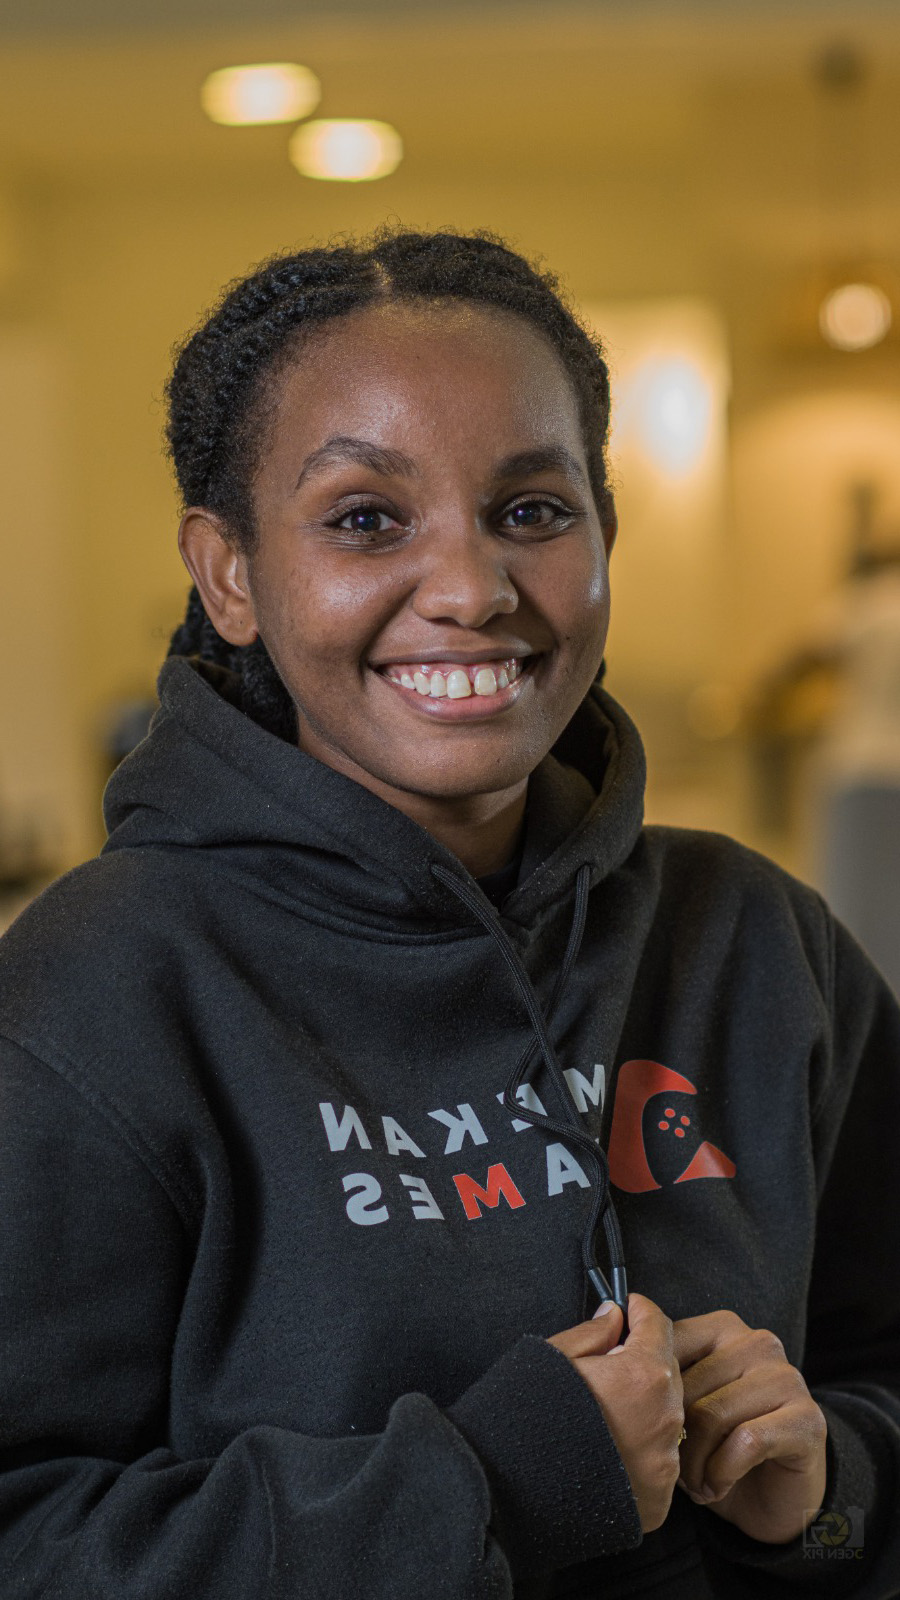
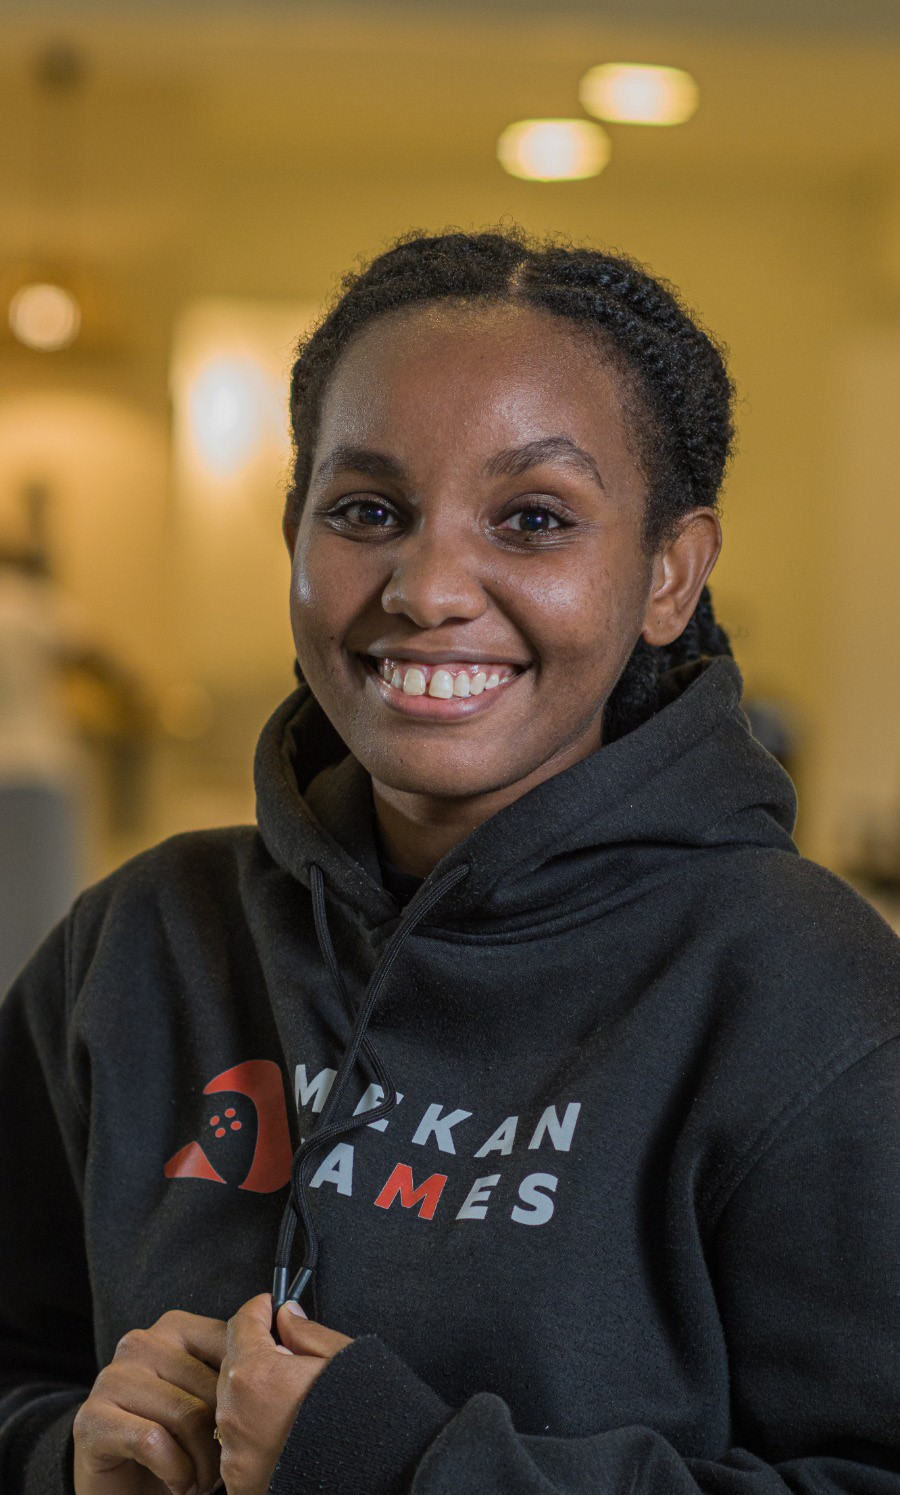
About Me

diff --git a/index.html b/index.html
@@ -10,10 +10,11 @@
 </head>
 <body>
     <nav id="desktop-nav">
-        <div class="logo">Patricia</div>
+        <div class="logo">P<span>ATRICIA.</span></div>
         <div>
             <ul class="nav-links">
                 <li><a href = "#about">About</a></li>
+                <li><a href = "#services">Services</a></li>
                 <li><a href = "#projects">Projects</a></li>
                 <!-- <li><a href = "#shop">Shop</a></li> -->
                 <li><a href = "#contact">Contact</a></li>
@@ -30,8 +31,9 @@
             </div>
             <div class = "menu-links">
                 <li><a href = "#about" onclick="togglemenu()">About</a></li>
+                <li><a href = "#services" onclick="togglemenu()">Services</a></li>
                 <li><a href = "#projects" onclick="togglemenu()">Projects</a></li>
-                <li><a href = "#shop" onclick="togglemenu()">Shop</a></li>
+                <!-- <li><a href = "#shop" onclick="togglemenu()">Shop</a></li> -->
                 <li><a href = "#contact" onclick="togglemenu()">Contact</a></li>
             </div>
         </div>
@@ -39,10 +41,60 @@
     <section id="hero">
        <div class="hero__text">
         <h1 class="title">Hello, I'm <span>Patricia Njambi</span></h1>
-        <p class="hero__text__p">A versatile graphic designer, transforming ideas<br>into impactful visuals across every medium.</p>
+        <p class="hero__text__p">A versatile graphic designer transforming ideas<br>into impactful visuals across every medium.</p>
        </div>
     </section>
-    <div></div>
+    <!-- ------------------ABOUT------------------ -->
+    <div id="about">
+        <div class="row">
+            <div class="about-col-1">
+                <img src="Assets/Patricia.jpg">
+            </div>
+            <div class="about-col-2">
+                <h1 class="subtitle">About Me</h1>
+                <p>I am a self-taught graphic designer with a deep passion for art, design, gaming and music. I possess a strong understanding of color theory, layout design, typography, and imagery, which enables me to create effective visual content tailored to diverse client needs, ranging from large corporations to individual projects. I am also dedicated to continuous improvement in my creative thinking and design abilities, consistently seeking opportunities for learning and professional growth.</p>
+                <div class="tab-titles">
+                    <p class="tab-links active-link" onclick="opentab('skills')">Skills</p>
+                    <p class="tab-links" onclick="opentab('experience')">Experience</p>
+                    <p class="tab-links" onclick="opentab('education')">Education</p>
+                </div>
+                <div class="tab-contents active-tab" id="skills">
+                    <ul>
+                        <li><span>Social Media Design</span><br>Crafting stunning and engaging content that captures attention and enhances brand presence</li>
+                        <li><span>Motion Graphics</span><br>Creating striking logo animations, lyric videos, infographics, and more.</li>
+                        <li><span>UI/UX</span><br>Designing intuitive and user-friendly interfaces that enhance user experience for Web, App, and Games</li>
+                        <li><span>Print Designs</span><br>Designing visually appealing and effective materials such as posters, company profiles, and various printed materials</li>
+                        <li><span>Software Proficiency</span><br>Adobe Illustrator, Adobe Photoshop, Adobe After Effects, Adobe Premiere Pro, and Figma, among others.</li>
+                    </ul>
+                </div>
+                <div class="tab-contents" id="experience">
+                    <ul>
+                        <li><span>Sep 2022 - Present</span><br>Game Researcher at Mekan Games</li>
+                        <li><span>Apr 2021 - Apr 2022</span><br>Graphic Designer at Tunu App</li>
+                        <li><span>Aug 2019 - Mar 2020, Sep 2020 - Mar 2021</span><br>Graphic Design Intern & Graphic Designer at Sketchbook</li>
+                        <li><span>Apr 2020 - July 2020</span><br>Motion Graphic Design Intern</li>
+                        <li><span>Jun 2018 - Aug 2018</span><br>Motion Graphic Design Intern</li>
+                        <li><span>Feb 2018 - May 2018</span><br>Graphic Design Intern</li>
+                    </ul>
+                </div>
+                <div class="tab-contents" id="education">
+                    <ul>
+                        <li><span>2015 - 2020</span><br>Bachelor's of Music Technology at Kenyatta University</li>
+                        <li><span>2015</span><br>ICDL/CBIT at Institute of Advanced Technology</li>
+                    </ul>
+                </div>
+            </div>
+        </div>
+    </div>
+    <!-- ------------------SERVICES------------------ -->
+     <div id="services">
+        <div class="container">
+            <h1 class="subtitle">My Services</h1>
+            <div class="services-list">
+
+            </div>
+        </div>
+     </div>
     <script src="script.js"></script>
 </body>
 </html>

diff --git a/style.css b/style.css
@@ -5,11 +5,12 @@
     margin: 0;
     padding: 0;
     box-sizing: border-box;
+    font-family: "Nunito", sans-serif;
     /* background-color: rgb(30, 30, 30); */
 }
 
 body {
-    font-family: "Nunito", sans-serif;
+    /* font-family: "Nunito", sans-serif; */
     background-color: rgb(30, 30, 30);
 }
 
@@ -18,8 +19,7 @@ html {
 }
 
 p {
-    color: rgb(197,197,197);
-    line-height: 1.5rem;
+    color: whitesmoke;
 }
 
 /*TRANSITION*/
@@ -30,6 +30,10 @@ a, .btn {
 
 /*DESKTOP NAV*/
 
+.desktop-nav {
+    background-color: rgb(30, 30, 30);
+}
+
 nav, .nav-links {
     display: flex;
     background-color: rgb(30, 30, 30);
@@ -39,7 +43,7 @@ nav {
     justify-content: space-between;
     align-items: last baseline;
     height: 10vh;
-    margin: auto 11rem;
+    margin: auto 10%;
 }
 
 .nav-links {
@@ -65,8 +69,12 @@ a:hover {
 .logo{
     font-size: 2rem;
     font-weight: 900;
-    color:rgb(89,89,89);
+    color:rgb(247, 86, 111);
     text-align: left;
+}
+
+.logo span{
+    color: whitesmoke;
 }
 
 .logo:hover{
@@ -153,7 +161,7 @@ a:hover {
     transform: none;
 }
 
-/*SECTION*/
+/*------------------SECTION------------------*/
 
 section {
     padding-top: 4vh;
@@ -164,7 +172,7 @@ section {
     display: flex;
 }
 
-/*HERO*/
+/*------------------HERO------------------*/
 
 #hero {
     width: 100%;
@@ -191,4 +199,87 @@ section {
 
 .hero__text__p{
     line-height: 2rem;
+}
+/* ------------------ABOUT------------------ */
+#about{
+    padding: 80px 10%;
+    color: rgb(197, 197, 197);
+    background-color: rgb(50, 50, 50);
+}
+
+.row{
+    display: flex;
+    justify-content: space-between;
+    flex-wrap: wrap;
+}
+
+.about-col-1{
+    flex-basis: 35%;
+}
+
+.about-col-1 img {
+    width: 100%;
+    border-radius: 15px;
+}
+
+.about-col-2 {
+    flex-basis: 60%;
+}
+
+.subtitle{
+    font-size: 50px;
+    font-weight: 700;
+    color: whitesmoke;
+}
+
+.tab-titles{
+    display: flex;
+    margin: 20px 0;
+}
+
+.tab-links {
+    margin-right: 50px;
+    font-size: 18px;
+    font-weight: 600;
+    cursor: pointer;
+    position: relative;
+}
+
+.tab-links::after {
+    content: '';
+    width: 0;
+    height: 3px;
+    background: rgb(247, 86, 111);
+    position: absolute;
+    left: 0;
+    bottom: -8px;
+    transition: 0.5s;
+}
+
+.tab-links.active-link::after {
+    width: 60%;
+}
+
+.tab-contents ul li {
+    list-style: none;
+    margin: 10px 0;
+}
+
+.tab-contents ul li span{
+    color: rgb(255, 130, 149);
+    font: 14px;
+}
+
+.tab-contents{
+    display: none;
+}
+
+.tab-contents.active-tab{
+    display: block;
+}
+
+/* ------------------SERVICES------------------ */
+
+#services {
+    padding: 30px 10%;
 }

diff --git a/script.js b/script.js
@@ -4,3 +4,18 @@ function togglemenu(){
     menu.classList.toggle("open");
     icon.classList.toggle("open");
 }
+
+var tablinks = document.getElementsByClassName("tab-links");
+        var tabcontents = document.getElementsByClassName("tab-contents");
+        function opentab(tabname){
+
+            for(tablink of tablinks){
+                tablink.classList.remove("active-link");
+            }
+
+            for(tabcontent of tabcontents){
+                tabcontent.classList.remove("active-tab");
+            }
+            event.currentTarget.classList.add("active-link");
+            document.getElementById(tabname).classList.add("active-tab");
+        }
